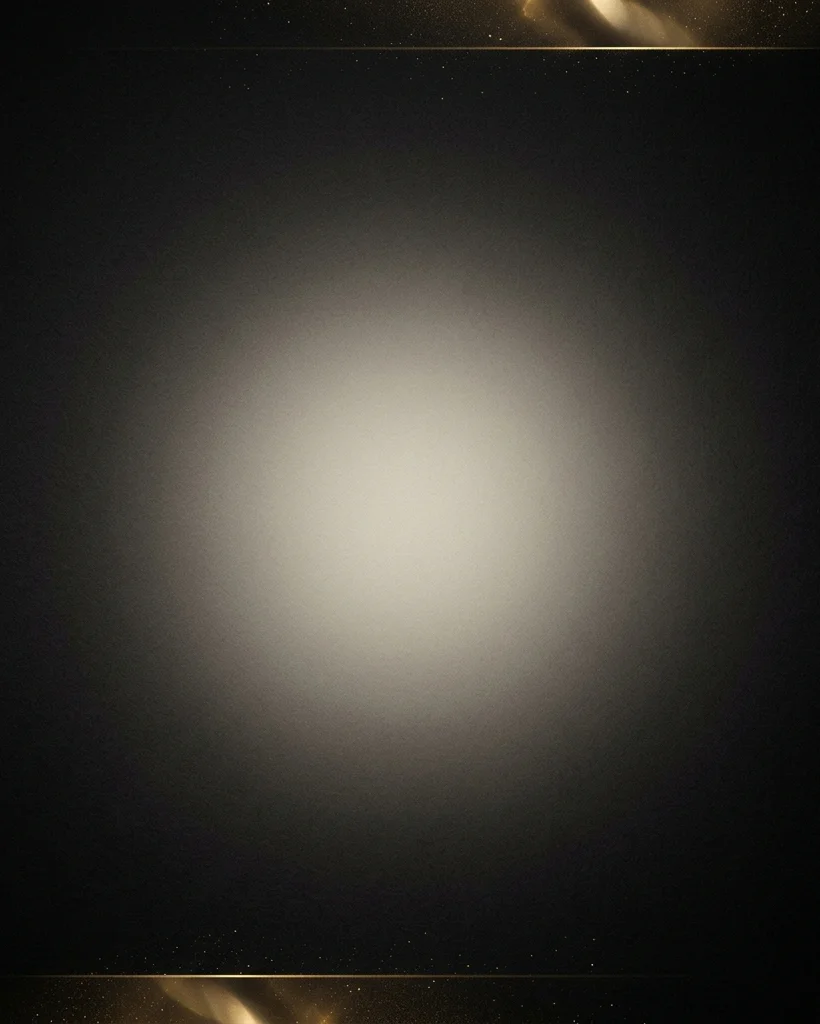
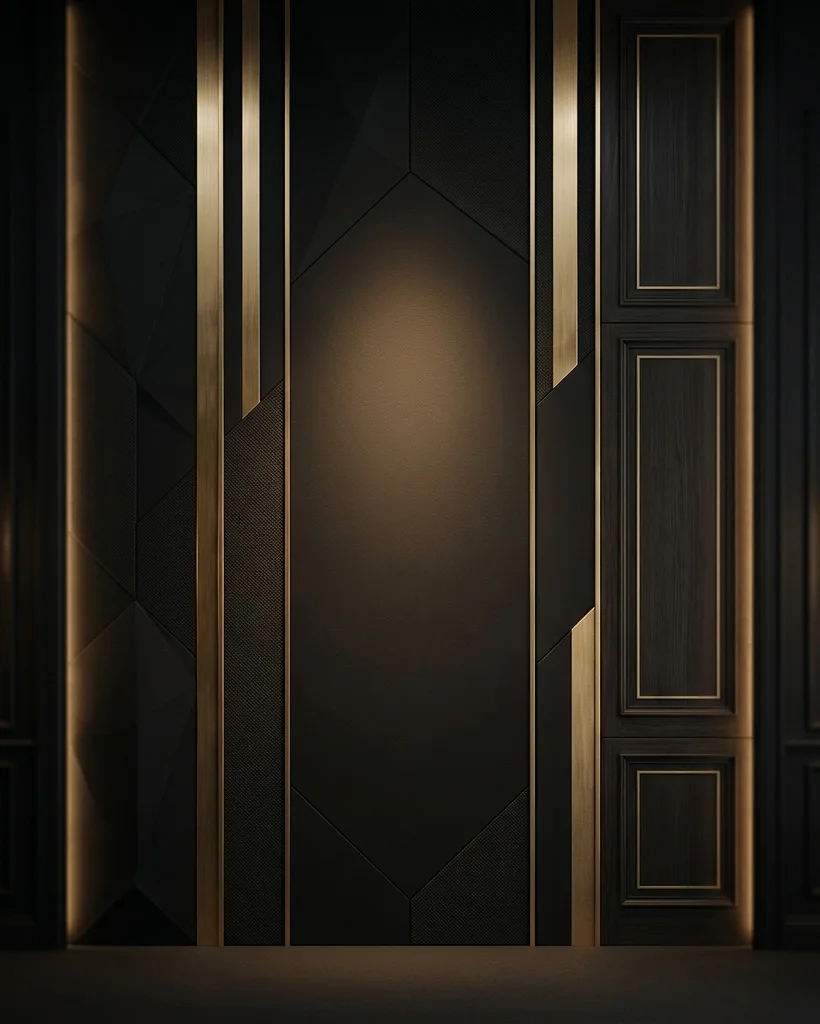
correccion tarjetas deportivas

diff --git a/src/lib/entertainmentTemplates.ts b/src/lib/entertainmentTemplates.ts
@@ -18,24 +18,24 @@ export const entertainmentTemplates: EntertainmentTemplateConfig[] = [
     name: 'Cine',
     category: 'entertainment',
     previewColor: 'linear-gradient(135deg, #eef2ff 0%, #c7d2fe 50%, #818cf8 100%)',
-    thumbnail: '/invitation-templates/entertainment/entertainment_cinema_v3.webp?v=3',
-    background: '/invitation-templates/entertainment/entertainment_cinema_v3.webp?v=3'
+    thumbnail: '/invitation-templates/entertainment/entertainment_cinema_v4.webp?v=4',
+    background: '/invitation-templates/entertainment/entertainment_cinema_v4.webp?v=4'
   },
   {
     id: 'entertainment_music',
     name: 'Música',
     category: 'entertainment',
     previewColor: 'linear-gradient(135deg, #f5f3ff 0%, #ddd6fe 50%, #a78bfa 100%)',
-    thumbnail: '/invitation-templates/entertainment/entertainment_music_v3.webp?v=3',
-    background: '/invitation-templates/entertainment/entertainment_music_v3.webp?v=3'
+    thumbnail: '/invitation-templates/entertainment/entertainment_music_v4.webp?v=4',
+    background: '/invitation-templates/entertainment/entertainment_music_v4.webp?v=4'
   },
   {
     id: 'entertainment_show',
     name: 'Show',
     category: 'entertainment',
     previewColor: 'linear-gradient(135deg, #fdf2f8 0%, #fbcfe8 50%, #f472b6 100%)',
-    thumbnail: '/invitation-templates/entertainment/entertainment_show_v3.webp?v=3',
-    background: '/invitation-templates/entertainment/entertainment_show_v3.webp?v=3'
+    thumbnail: '/invitation-templates/entertainment/entertainment_show_v4.webp?v=4',
+    background: '/invitation-templates/entertainment/entertainment_show_v4.webp?v=4'
   }
 ];
 

diff --git a/process_images_v3.py b/process_images_v3.py
@@ -1,0 +1,40 @@
+from PIL import Image
+import os
+
+files = {
+    r"C:\Users\Minar\.gemini\antigravity\brain\6436af3d-779c-44e8-8b0b-1fed3a276ace\formal_gala_1783355987320.png": r"c:\Users\Minar\Documents\Proyectos\PuntoEncuentro\public\invitation-templates\formal\formal_black_tie_v2.webp",
+    r"C:\Users\Minar\.gemini\antigravity\brain\6436af3d-779c-44e8-8b0b-1fed3a276ace\formal_executive_1783355998041.png": r"c:\Users\Minar\Documents\Proyectos\PuntoEncuentro\public\invitation-templates\formal\formal_executive_v2.webp",
+    r"C:\Users\Minar\.gemini\antigravity\brain\6436af3d-779c-44e8-8b0b-1fed3a276ace\entertainment_cinema_1783356006938.png": r"c:\Users\Minar\Documents\Proyectos\PuntoEncuentro\public\invitation-templates\entertainment\entertainment_cinema_v4.webp",
+    r"C:\Users\Minar\.gemini\antigravity\brain\6436af3d-779c-44e8-8b0b-1fed3a276ace\entertainment_music_1783356018016.png": r"c:\Users\Minar\Documents\Proyectos\PuntoEncuentro\public\invitation-templates\entertainment\entertainment_music_v4.webp",
+    r"C:\Users\Minar\.gemini\antigravity\brain\6436af3d-779c-44e8-8b0b-1fed3a276ace\entertainment_show_1783356027930.png": r"c:\Users\Minar\Documents\Proyectos\PuntoEncuentro\public\invitation-templates\entertainment\entertainment_show_v4.webp"
+}
+
+TARGET_W = 820
+TARGET_H = 1024
+
+for src, dst in files.items():
+    print(f"Processing {src} -> {dst}")
+    os.makedirs(os.path.dirname(dst), exist_ok=True)
+    img = Image.open(src)
+    
+    # Calculate aspect ratios
+    img_ratio = img.width / img.height
+    target_ratio = TARGET_W / TARGET_H
+    
+    if img_ratio > target_ratio:
+        # Image is wider than target, crop width
+        new_w = int(img.height * target_ratio)
+        offset = (img.width - new_w) // 2
+        img = img.crop((offset, 0, offset + new_w, img.height))
+    elif img_ratio < target_ratio:
+        # Image is taller than target, crop height
+        new_h = int(img.width / target_ratio)
+        offset = (img.height - new_h) // 2
+        img = img.crop((0, offset, img.width, offset + new_h))
+        
+    # Resize to exact dimensions
+    img = img.resize((TARGET_W, TARGET_H), Image.Resampling.LANCZOS)
+    
+    # Save as webp with quality 85
+    img.save(dst, 'WEBP', quality=85)
+    print(f"Saved {dst}")
